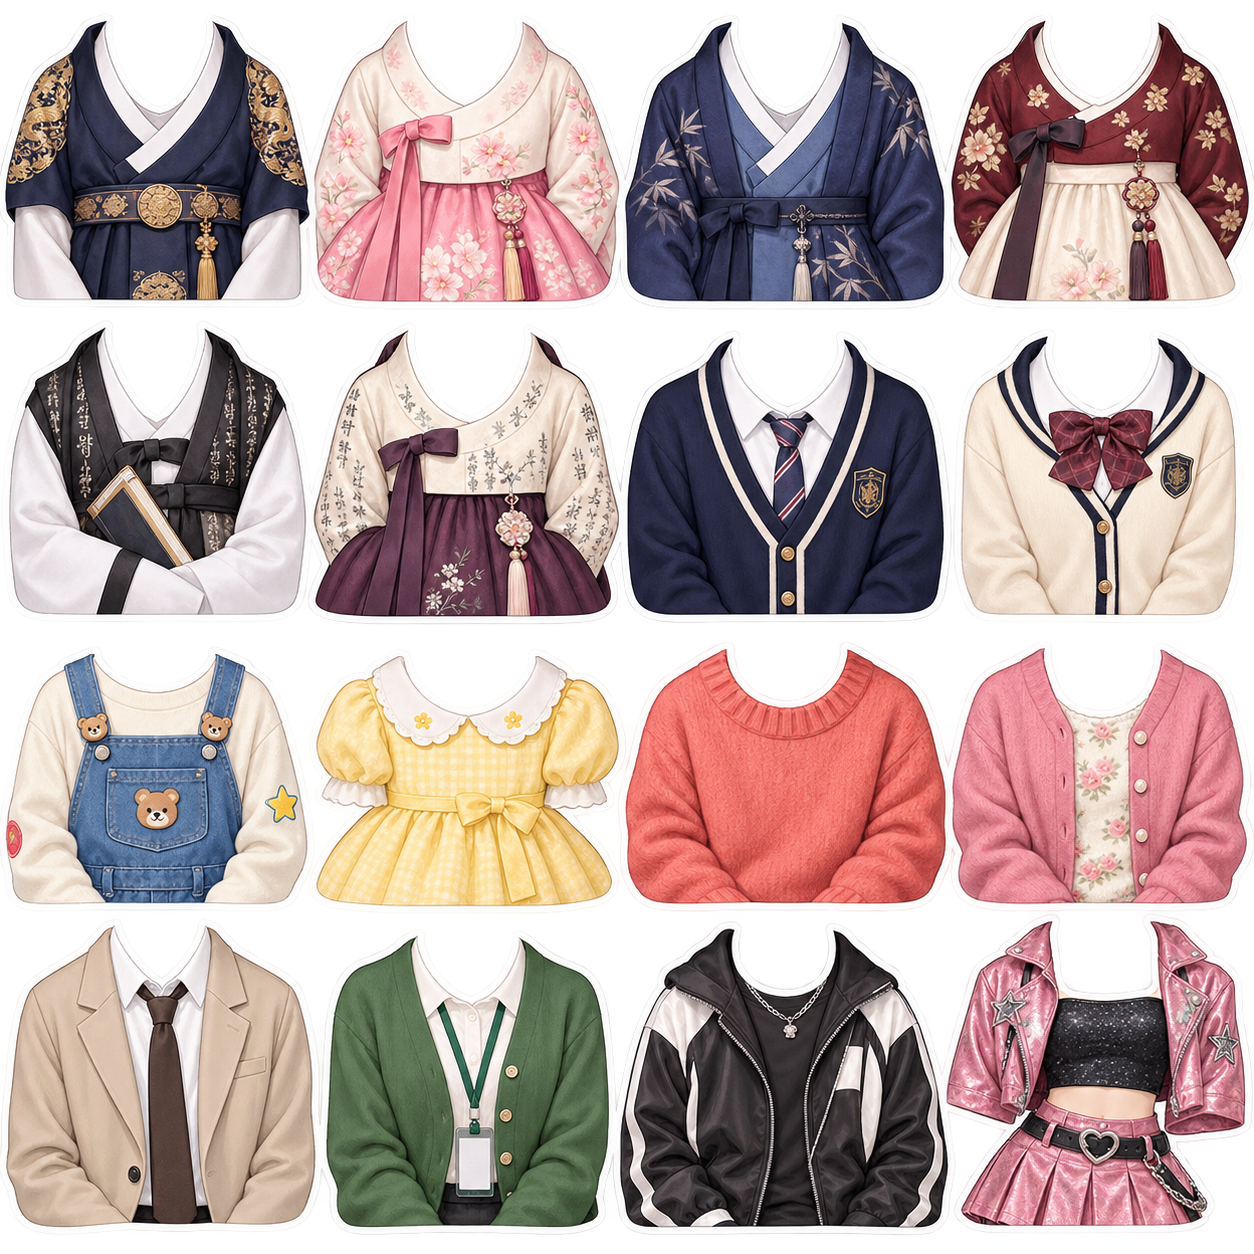
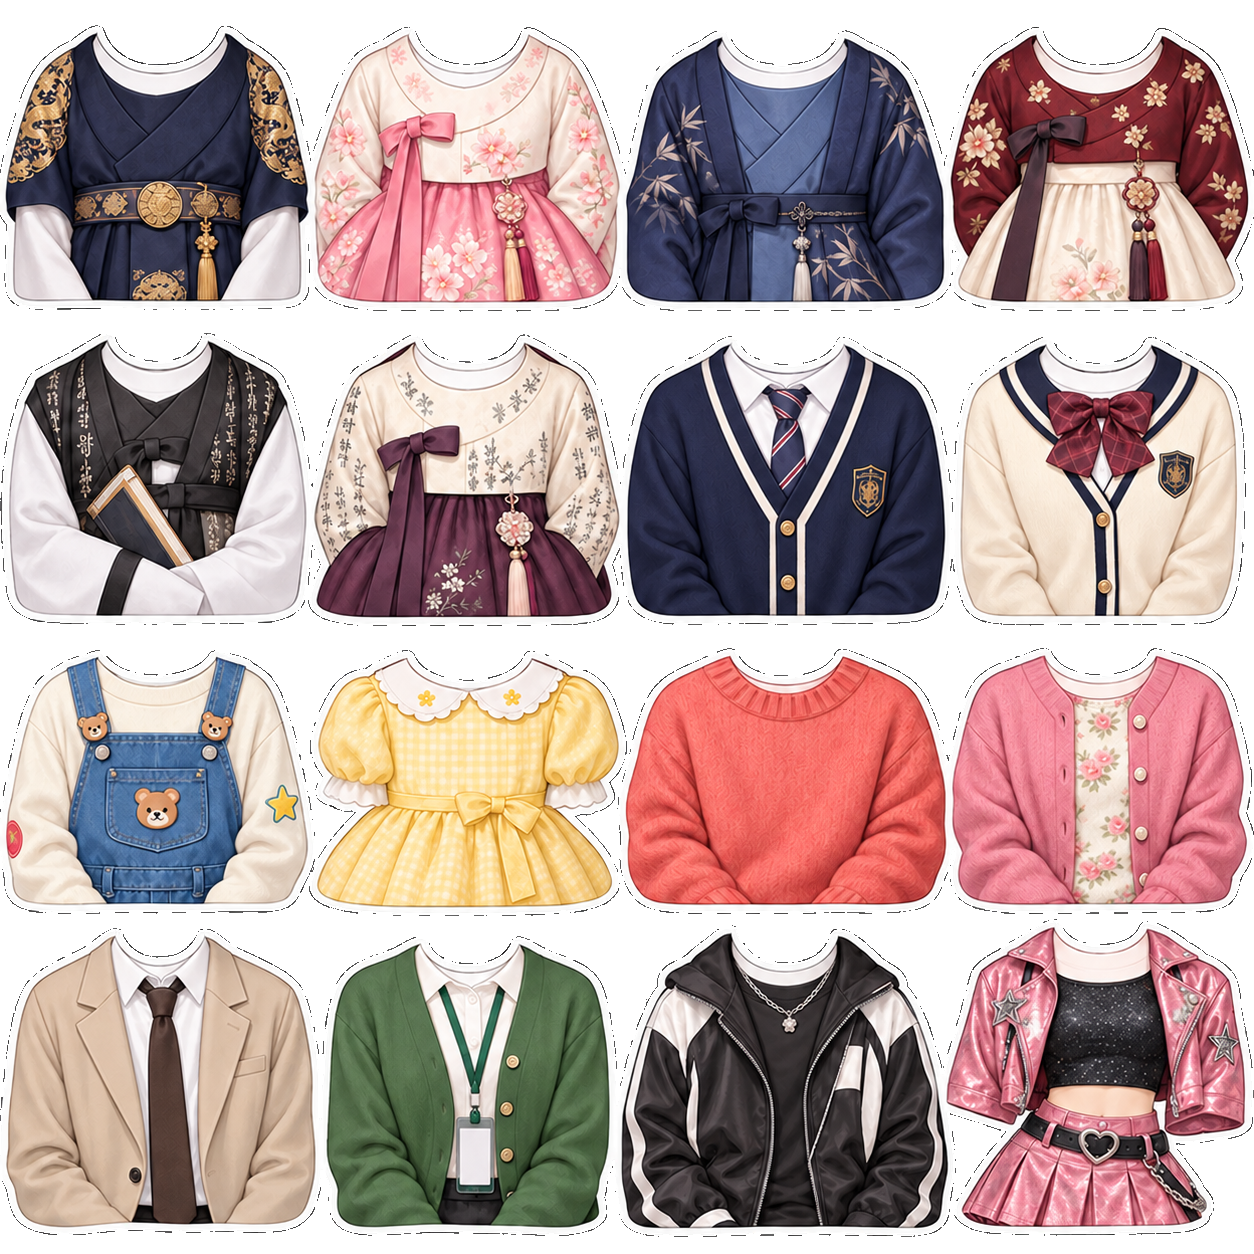
fix: show stickers inside photo slots

diff --git a/src/App.tsx b/src/App.tsx
@@ -643,8 +643,22 @@ export default function App() {
         ctx.fillText(botT, canvasWidth / 2, canvasHeight - padding - 10);
     }
 
-    // 4. Draw Stickers
+    // 4. Draw Stickers. A sticker belongs to the photo it was dropped onto.
+    // Clip only its artwork to that camera slot, while keeping editor controls
+    // visible so a partly-hidden sticker can still be selected and adjusted.
     currentStickers.forEach((s) => {
+      const stickerSlot = slots.find((slot) => (
+        s.x >= slot.x && s.x <= slot.x + slot.w &&
+        s.y >= slot.y && s.y <= slot.y + slot.h
+      ));
+
+      // Do not allow decorations to float over the frame, title, or background.
+      if (!stickerSlot) return;
+
+      ctx.save();
+      const clipInset = 5;
+      traceShape(ctx, currentFrameDesign.shape || 'rect', stickerSlot.x + clipInset, stickerSlot.y + clipInset, stickerSlot.w - clipInset * 2, stickerSlot.h - clipInset * 2);
+      ctx.clip();
       ctx.save();
       ctx.translate(s.x, s.y);
       ctx.rotate((s.rotation * Math.PI) / 180);
@@ -693,7 +707,15 @@ export default function App() {
       ctx.globalAlpha = 1;
       ctx.shadowColor = 'transparent';
 
+      // Restore both the sticker transform and the photo-slot clip before
+      // drawing selection affordances.
+      ctx.restore();
+      ctx.restore();
+
       if (s.id === currentSelectedId) {
+        ctx.save();
+        ctx.translate(s.x, s.y);
+        ctx.rotate((s.rotation * Math.PI) / 180);
         // Outline
         ctx.strokeStyle = '#FFFFFF';
         ctx.lineWidth = 3;
@@ -754,8 +776,8 @@ export default function App() {
         ctx.fillStyle = '#fff';
         ctx.font = '12px sans-serif';
         ctx.fillText('✕', s.size / 2 + 10, -s.size / 2 - 9);
+        ctx.restore();
       }
-      ctx.restore();
     });
     
     ctx.restore();
@@ -1562,12 +1584,39 @@ export default function App() {
     });
   };
 
+  const getDefaultStickerPosition = () => {
+    const padding = 20;
+    const footerHeight = 100;
+    const headerHeight = topText ? 80 : 0;
+    const { w, h } = canvasDim;
+
+    if (frameMode === '3-cut') {
+      const slotHeight = (h - padding * 4 - headerHeight - footerHeight) / 3;
+      return { x: w / 2, y: padding + headerHeight + slotHeight / 2 };
+    }
+
+    if (frameMode === '4-cut') {
+      const slotWidth = (w - padding * 3) / 2;
+      const slotHeight = (h - padding * 3 - headerHeight - footerHeight) / 2;
+      return {
+        x: padding + slotWidth / 2,
+        y: padding + headerHeight + slotHeight / 2,
+      };
+    }
+
+    return {
+      x: w / 2,
+      y: padding + headerHeight + (h - padding * 2 - headerHeight - footerHeight) / 2,
+    };
+  };
+
   const addSticker = (emoji: string) => {
+    const position = getDefaultStickerPosition();
     const newSticker: Sticker = {
       id: Math.random().toString(36).substr(2, 9),
       emoji,
-      x: canvasDim.w / 2,
-      y: canvasDim.h / 2,
+      x: position.x,
+      y: position.y,
       size: 150,
       rotation: 0,
     };
